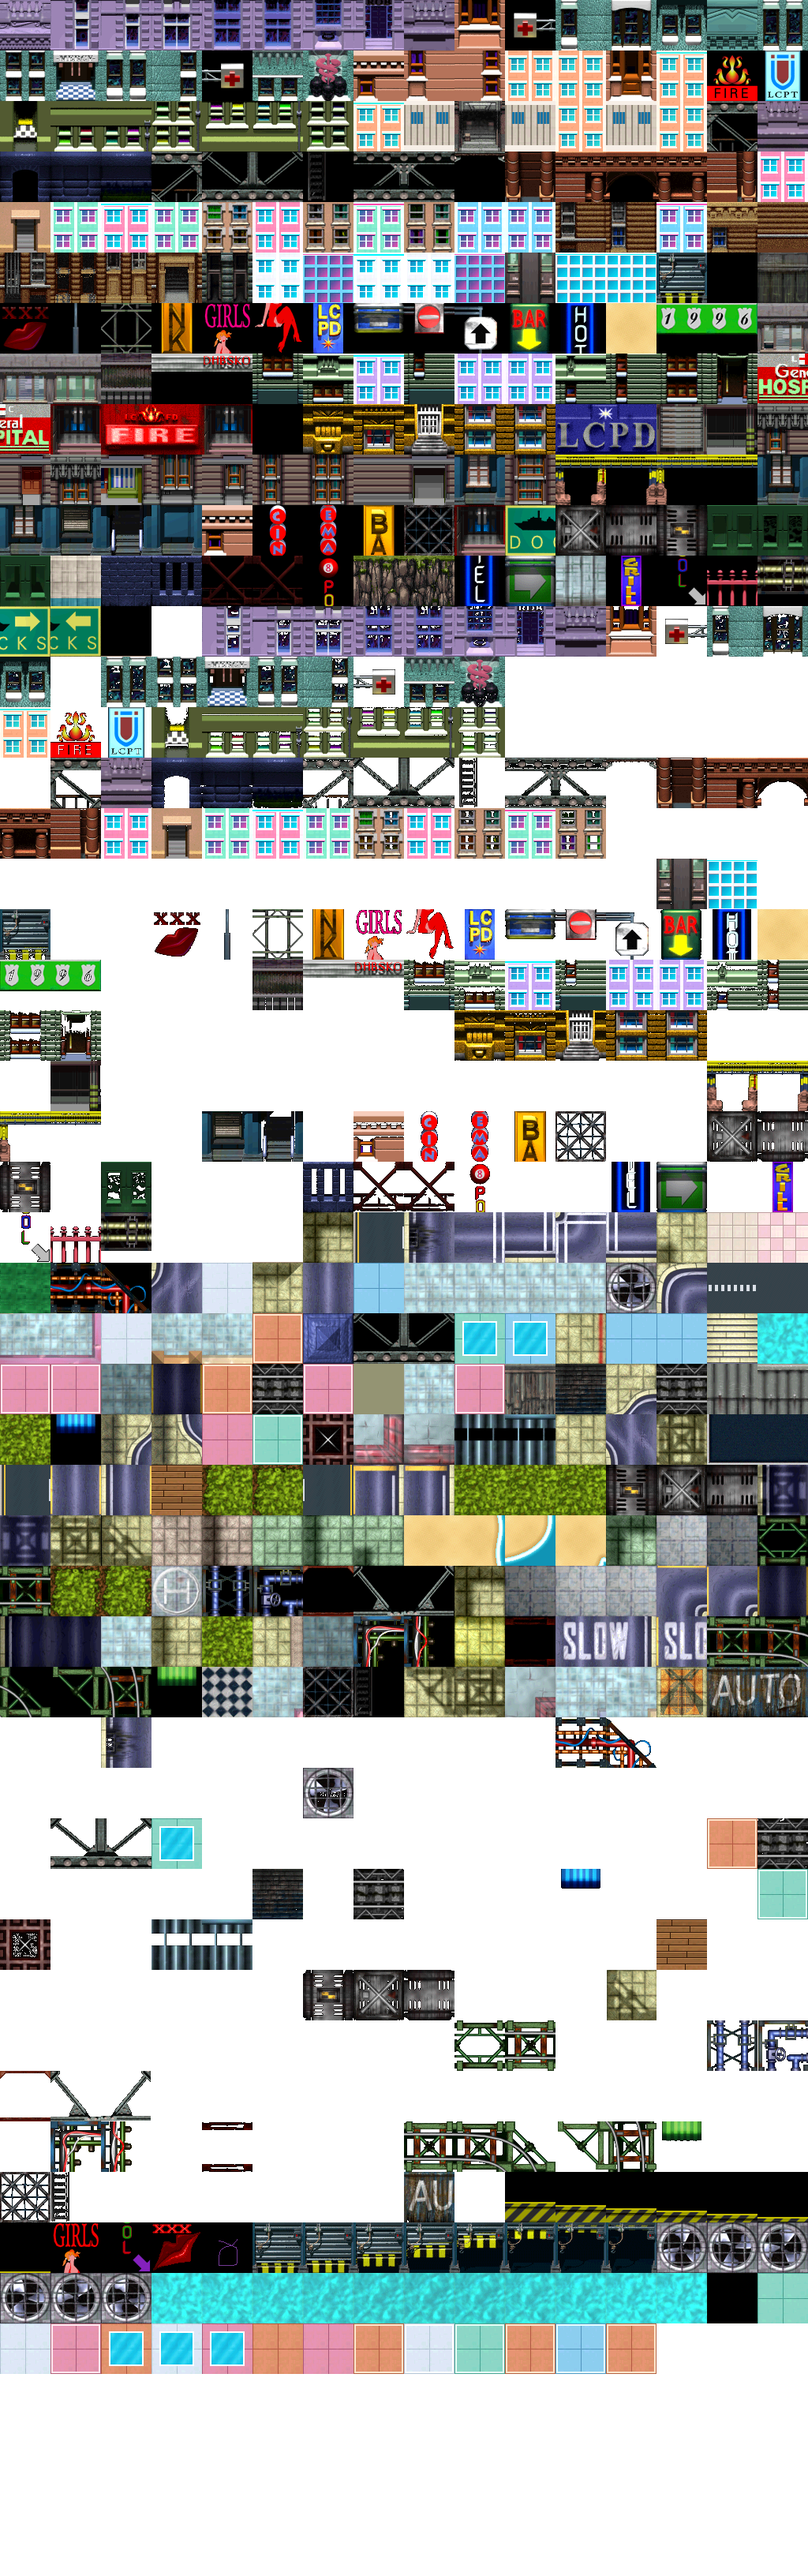
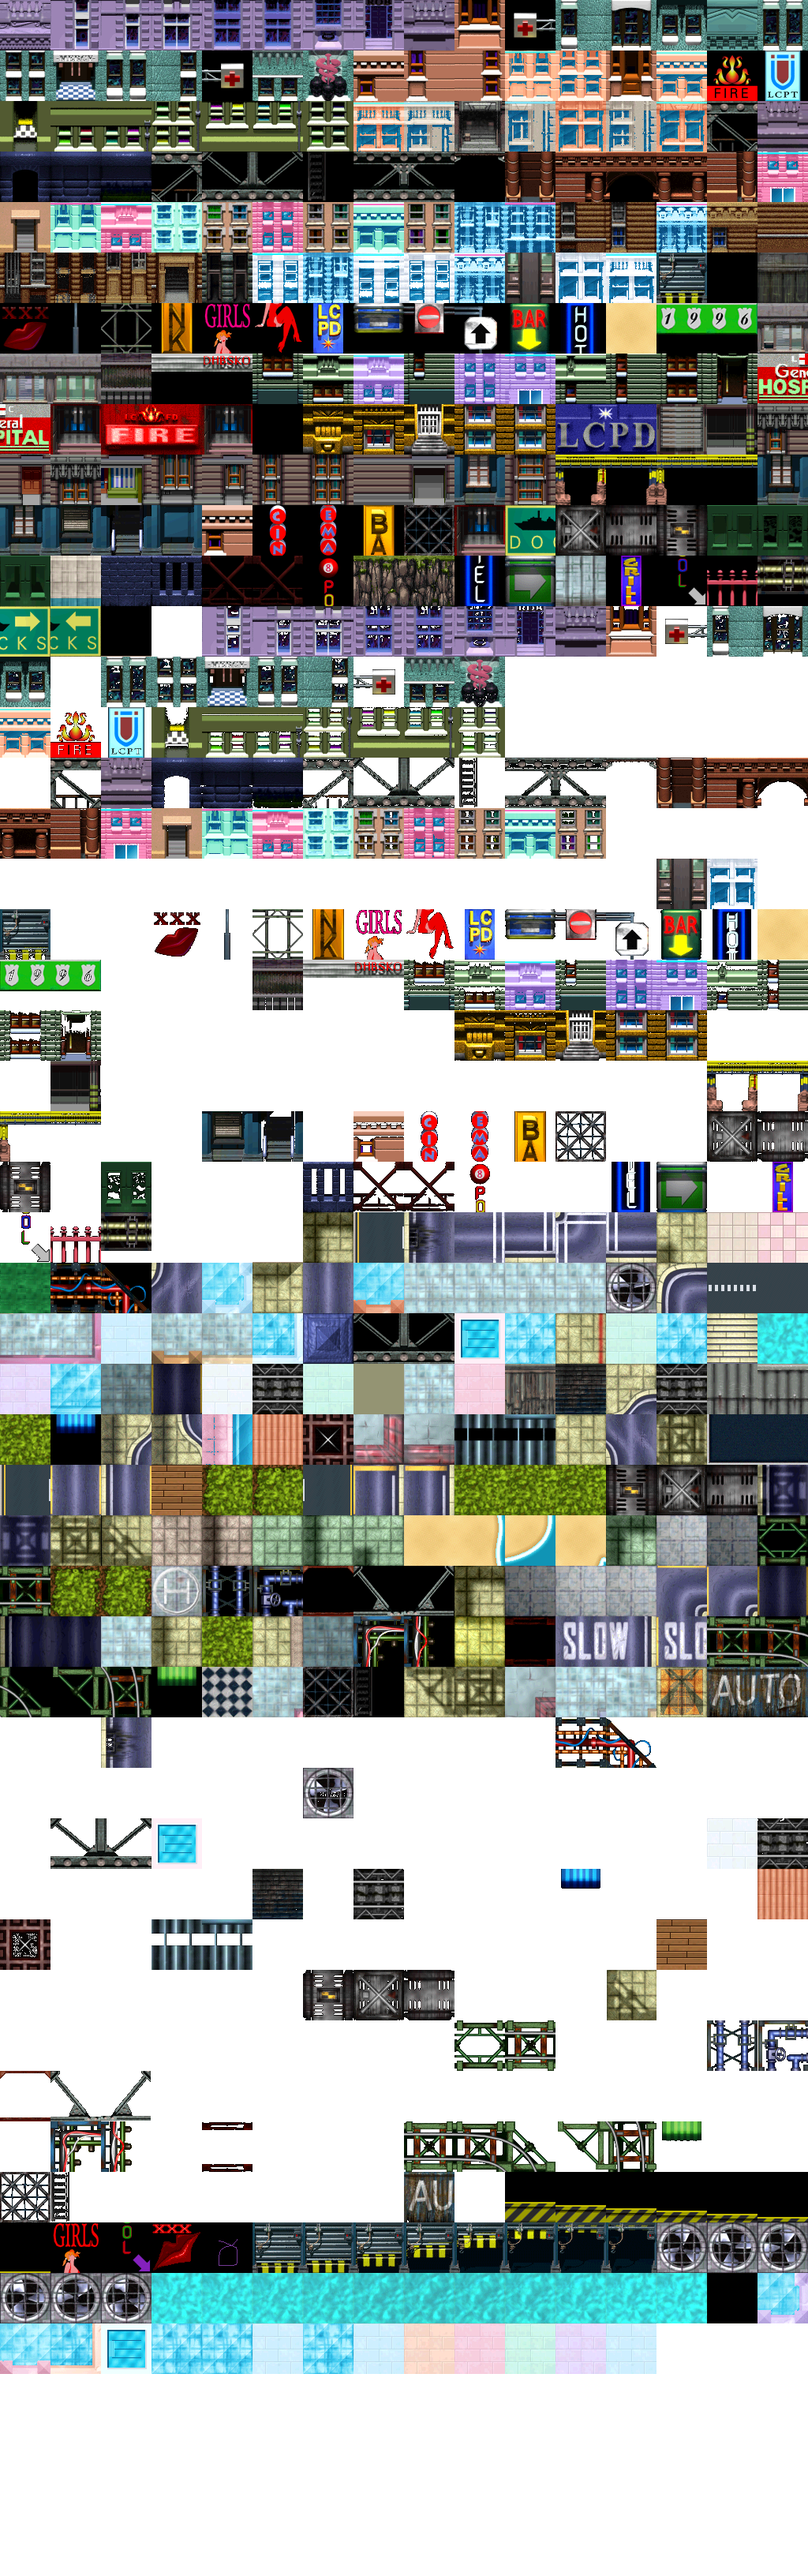
v98.05: 3ds Max Pre-Rendered Miami Art Deco Building Facades, Color-Matched Rooftop Terraces, Mitered 3D Parapets & Rooftop Pools

diff --git a/js/renderer.js b/js/renderer.js
@@ -216,6 +216,13 @@ class RetroRenderer {
                         // Horizontal ground (roads, sidewalks, golden beach sand, grass, rooftops):
                         // Cool nocturnal moonlight base (darkened & lit dynamically by renderNightLighting!)
                         nightRgb = c.rgb * vec3(0.68, 0.73, 0.90);
+                        if (uViceStyle > 0.5 && vWorldPos.y > 1.5) {
+                            // Illuminated Vice City rooftop swimming pools, glass skylight atriums & neon parapet trims at night!
+                            float rSat = max(c.r, max(c.g, c.b)) - min(c.r, min(c.g, c.b));
+                            float rLum = dot(c.rgb, vec3(0.299, 0.587, 0.114));
+                            float poolOrNeon = clamp((rSat - 0.32) * 2.6 + (rLum - 0.62) * 1.8, 0.0, 1.0);
+                            nightRgb = mix(nightRgb, min(vec3(1.0), c.rgb * 1.18 + vec3(0.04, 0.08, 0.12)), poolOrNeon * 0.75);
+                        }
                     }
                     c.rgb = mix(c.rgb, nightRgb, clamp(uNightTint, 0.0, 1.0));
                 }
@@ -565,7 +572,7 @@ class RetroRenderer {
                     }
                 }
                 if (this.gl) {
-                    this.tilesTexVice = this.createGLTexture(this.gta1TilesViceImg, false);
+                    this.tilesTexVice = this.createGLTexture(this.gta1TilesViceImg, true);
                     this.tilesTexNyc = this.tilesTexNyc || this.tilesTexVice;
                     this.tilesTex = this.mapStyle === "VICE" ? this.tilesTexVice : this.tilesTexNyc;
                     const enhancedSprites = this.processGtaSpritesRtx(this.gta1SpritesImg, this.gta1Meta);
@@ -584,9 +591,9 @@ class RetroRenderer {
                 }
 
                 // Lazily load secondary NYC classic tile atlas after main Vice City world is already live
-                loadImageWithRetry(this.gta1TilesImg, "assets/gta1/gta1_tiles.png?v=98_02", () => {
+                loadImageWithRetry(this.gta1TilesImg, "assets/gta1/gta1_tiles.png?v=98_05", () => {
                     if (this.gl) {
-                        this.tilesTexNyc = this.createGLTexture(this.gta1TilesImg, false);
+                        this.tilesTexNyc = this.createGLTexture(this.gta1TilesImg, true);
                         if (this.mapStyle === "NYC") {
                             this.tilesTex = this.tilesTexNyc;
                         }
@@ -632,34 +639,34 @@ class RetroRenderer {
             return run();
         };
 
-        loadImageWithRetry(this.gta1TilesViceImg, "assets/gta1/gta1_tiles_vice.png?v=98_02", () => {
+        loadImageWithRetry(this.gta1TilesViceImg, "assets/gta1/gta1_tiles_vice.png?v=98_05", () => {
             viceTilesLoaded = true;
             checkReady();
         });
 
-        loadImageWithRetry(this.gta1SpritesImg, "assets/gta1/gta1_sprites.png?v=98_02", () => {
+        loadImageWithRetry(this.gta1SpritesImg, "assets/gta1/gta1_sprites.png?v=98_05", () => {
             spritesLoaded = true;
             checkReady();
         });
 
-        loadImageWithRetry(this.viceOverviewImg, "assets/gta1/vice_cmp_overview.png?v=98_02", () => {
+        loadImageWithRetry(this.viceOverviewImg, "assets/gta1/vice_cmp_overview.png?v=98_05", () => {
             this.viceOverviewReady = true;
             this.bakeRadarBackground();
         });
 
-        loadImageWithRetry(this.nycOverviewImg, "assets/gta1/nyc_cmp_overview.png?v=98_02", () => {
+        loadImageWithRetry(this.nycOverviewImg, "assets/gta1/nyc_cmp_overview.png?v=98_05", () => {
             this.nycOverviewReady = true;
             this.bakeRadarBackground();
         });
 
-        fetchWithRetry("assets/gta1/gta1_meta.json?v=98_02", false)
+        fetchWithRetry("assets/gta1/gta1_meta.json?v=98_05", false)
             .then((meta) => {
                 this.gta1Meta = meta;
                 checkReady();
             })
             .catch((err) => console.error("Failed to load gta1_meta.json:", err));
 
-        fetchWithRetry("assets/gta1/gta1_map.bin?v=98_02", true)
+        fetchWithRetry("assets/gta1/gta1_map.bin?v=98_05", true)
             .then((buf) => {
                 mapBinBuffer = buf;
                 checkReady();
@@ -1088,6 +1095,74 @@ class RetroRenderer {
             const pos = p[qi[c]];
             const uv = cornerUVs[c];
             verts.push(pos[0] + nOffX, pos[1] + nOffY, pos[2] + nOffZ, uv[0], uv[1], animType);
+        }
+
+        // 6. 3D Mitered Outer Roof Parapet Coping & Drop-Shadow Rim:
+        // Emitted ONLY along true outer drop-off edges of a building roof (where b.faces[0..3] > 0),
+        // framing each roof tier with a continuous 3D Art Deco parapet while keeping interior roof tiles seamless!
+        if (face === 4 && st === 0 && !b.isFlat && y_elev >= 1 && b.groundType === 5 && tileIdx !== 41 && tileIdx !== 22) {
+            const hasW = b.faces[0] > 0;
+            const hasE = b.faces[1] > 0;
+            const hasN = b.faces[2] > 0;
+            const hasS = b.faces[3] > 0;
+            if (hasW || hasE || hasN || hasS) {
+                const wPar = 0.095;
+                const yCop = y_elev + 1.003;
+                const emitParapetStrip = (sideTile, q0, q1, q2, q3) => {
+                    const sAtlasIdx = (tiles.side_start || 0) + (sideTile % tiles.side_count);
+                    const sCol = sAtlasIdx % 16;
+                    const sRow = Math.floor(sAtlasIdx / 16);
+                    const su0 = sCol / 16.0 + padU;
+                    const su1 = (sCol + 1.0) / 16.0 - padU;
+                    // Sample top sunlit Art Deco cornice (py=0.6) -> neon/frieze accent -> inner parapet shadow (py=7.2)
+                    const svOuter = (sRow + 0.6 / 64.0) / 51.0;
+                    const svInner = (sRow + 7.2 / 64.0) / 51.0;
+                    const qPos = [q0, q1, q2, q3];
+                    for (let k = 0; k < 6; k++) {
+                        const c = triOrder[k];
+                        const qp = qPos[c];
+                        const qu = qp[3] ? su1 : su0;
+                        const qv = qp[4] ? svInner : svOuter;
+                        verts.push(qp[0], qp[1], qp[2], qu, qv, 0.0);
+                    }
+                };
+                if (hasN) {
+                    emitParapetStrip(
+                        b.faces[2],
+                        [xW, yCop, zN, 0, 0],
+                        [xE, yCop, zN, 1, 0],
+                        [xW + (hasW ? wPar : 0.0), yCop, zN + wPar, 0, 1],
+                        [xE - (hasE ? wPar : 0.0), yCop, zN + wPar, 1, 1]
+                    );
+                }
+                if (hasS) {
+                    emitParapetStrip(
+                        b.faces[3],
+                        [xW + (hasW ? wPar : 0.0), yCop, zS - wPar, 0, 1],
+                        [xE - (hasE ? wPar : 0.0), yCop, zS - wPar, 1, 1],
+                        [xW, yCop, zS, 0, 0],
+                        [xE, yCop, zS, 1, 0]
+                    );
+                }
+                if (hasW) {
+                    emitParapetStrip(
+                        b.faces[0],
+                        [xW, yCop, zN, 0, 0],
+                        [xW + wPar, yCop, zN + (hasN ? wPar : 0.0), 0, 1],
+                        [xW, yCop, zS, 1, 0],
+                        [xW + wPar, yCop, zS - (hasS ? wPar : 0.0), 1, 1]
+                    );
+                }
+                if (hasE) {
+                    emitParapetStrip(
+                        b.faces[1],
+                        [xE - wPar, yCop, zN + (hasN ? wPar : 0.0), 0, 1],
+                        [xE, yCop, zN, 0, 0],
+                        [xE - wPar, yCop, zS - (hasS ? wPar : 0.0), 1, 1],
+                        [xE, yCop, zS, 1, 0]
+                    );
+                }
+            }
         }
     }
 

diff --git a/js/map.js b/js/map.js
@@ -238,6 +238,64 @@ class LeonidaMap {
             }
         }
 
+        // Miami Art Deco Rooftop Pool & Glass Skylight Atrium Pass:
+        // Enriches interior penthouse & hotel roof tiles (lid 46, 48, 51) with centerpiece Turquoise Rooftop Pools (lid 35)
+        // and 3ds Max Glass Skylight Atriums (lid 31) while preserving 100% of their 3D side walls (w, e, n, s)!
+        const roofVariantCache = new Map();
+        const getRoofVariantIdx = (origIdx, newLid, newRemap = 0) => {
+            const key = `${origIdx}_${newLid}_${newRemap}`;
+            if (roofVariantCache.has(key)) return roofVariantCache.get(key);
+            const src = this.blocksData[origIdx];
+            const clone = {
+                ...src,
+                lid: newLid,
+                remap: newRemap,
+                faces: [src.w, src.e, src.n, src.s, newLid]
+            };
+            const nextIdx = this.blocksData.length;
+            this.blocksData.push(clone);
+            roofVariantCache.set(key, nextIdx);
+            return nextIdx;
+        };
+
+        for (let tilez = 2; tilez < MAP_LAYERS; tilez++) {
+            const zOff = tilez * MAP_ROWS;
+            for (let tiley = 3; tiley < MAP_ROWS - 3; tiley++) {
+                for (let tilex = 3; tilex < MAP_COLS - 3; tilex++) {
+                    const gIdx = (zOff + tiley) * MAP_COLS + tilex;
+                    const blkIdx = this.voxelGrid[gIdx];
+                    const blk = this.blocksData[blkIdx];
+                    if (!blk || blk.groundType !== GROUND_TYPE.BUILDING || (blk.lid !== 46 && blk.lid !== 48 && blk.lid !== 51)) {
+                        continue;
+                    }
+                    // Ensure this is the top roof surface of this column
+                    if (tilez + 1 < MAP_LAYERS) {
+                        const aboveBlk = this.blocksData[this.voxelGrid[((tilez + 1) * MAP_ROWS + tiley) * MAP_COLS + tilex]];
+                        if (aboveBlk && aboveBlk.groundType !== GROUND_TYPE.AIR) continue;
+                    }
+                    // Check if surrounded North & South (or East & West) by roof tiles at the same height
+                    const nBlk = this.blocksData[this.voxelGrid[(zOff + tiley - 1) * MAP_COLS + tilex]];
+                    const sBlk = this.blocksData[this.voxelGrid[(zOff + tiley + 1) * MAP_COLS + tilex]];
+                    const wBlk = this.blocksData[this.voxelGrid[(zOff + tiley) * MAP_COLS + (tilex - 1)]];
+                    const eBlk = this.blocksData[this.voxelGrid[(zOff + tiley) * MAP_COLS + (tilex + 1)]];
+                    const hasNSRoof = nBlk && nBlk.lid > 0 && sBlk && sBlk.lid > 0;
+                    const hasEWRoof = wBlk && wBlk.lid > 0 && eBlk && eBlk.lid > 0;
+                    if (!hasNSRoof && !hasEWRoof) continue;
+
+                    const isHotelDixonPool = ((tiley === 144 || tiley === 145) && (tilex === 210 || tilex === 211));
+                    const isOceanDrivePenthouse = (tilex >= 200 && tilex <= 212 && tilez >= 4 && ((tilex + tiley * 3) % 4 === 0));
+                    const isInteriorFeature = (hasNSRoof && hasEWRoof && ((tilex * 5 + tiley * 7) % 3 === 0));
+
+                    if (isHotelDixonPool || (isOceanDrivePenthouse && ((tiley % 3) === 0))) {
+                        this.voxelGrid[gIdx] = getRoofVariantIdx(blkIdx, 35, 0);
+                    } else if (isOceanDrivePenthouse || isInteriorFeature) {
+                        const featLid = ((tilex + tiley) % 2 === 0) ? 35 : 31;
+                        this.voxelGrid[gIdx] = getRoofVariantIdx(blkIdx, featLid, blk.remap);
+                    }
+                }
+            }
+        }
+
         this.cmpLoaded = true;
 
         // Build 2D surface lookup table & tree planter list (Lid 69)

diff --git a/index.html b/index.html
@@ -244,11 +244,11 @@
     </div>
 
     <!-- Modular Zero-Dependency 1997 2.5D Engine Scripts -->
-    <script src="js/audio.js?v=98_03"></script>
-    <script src="js/map.js?v=98_03"></script>
-    <script src="js/entities.js?v=98_03"></script>
-    <script src="js/missions.js?v=98_03"></script>
-    <script src="js/renderer.js?v=98_03"></script>
-    <script src="js/game.js?v=98_03"></script>
+    <script src="js/audio.js?v=98_05"></script>
+    <script src="js/map.js?v=98_05"></script>
+    <script src="js/entities.js?v=98_05"></script>
+    <script src="js/missions.js?v=98_05"></script>
+    <script src="js/renderer.js?v=98_05"></script>
+    <script src="js/game.js?v=98_05"></script>
 </body>
 </html>
